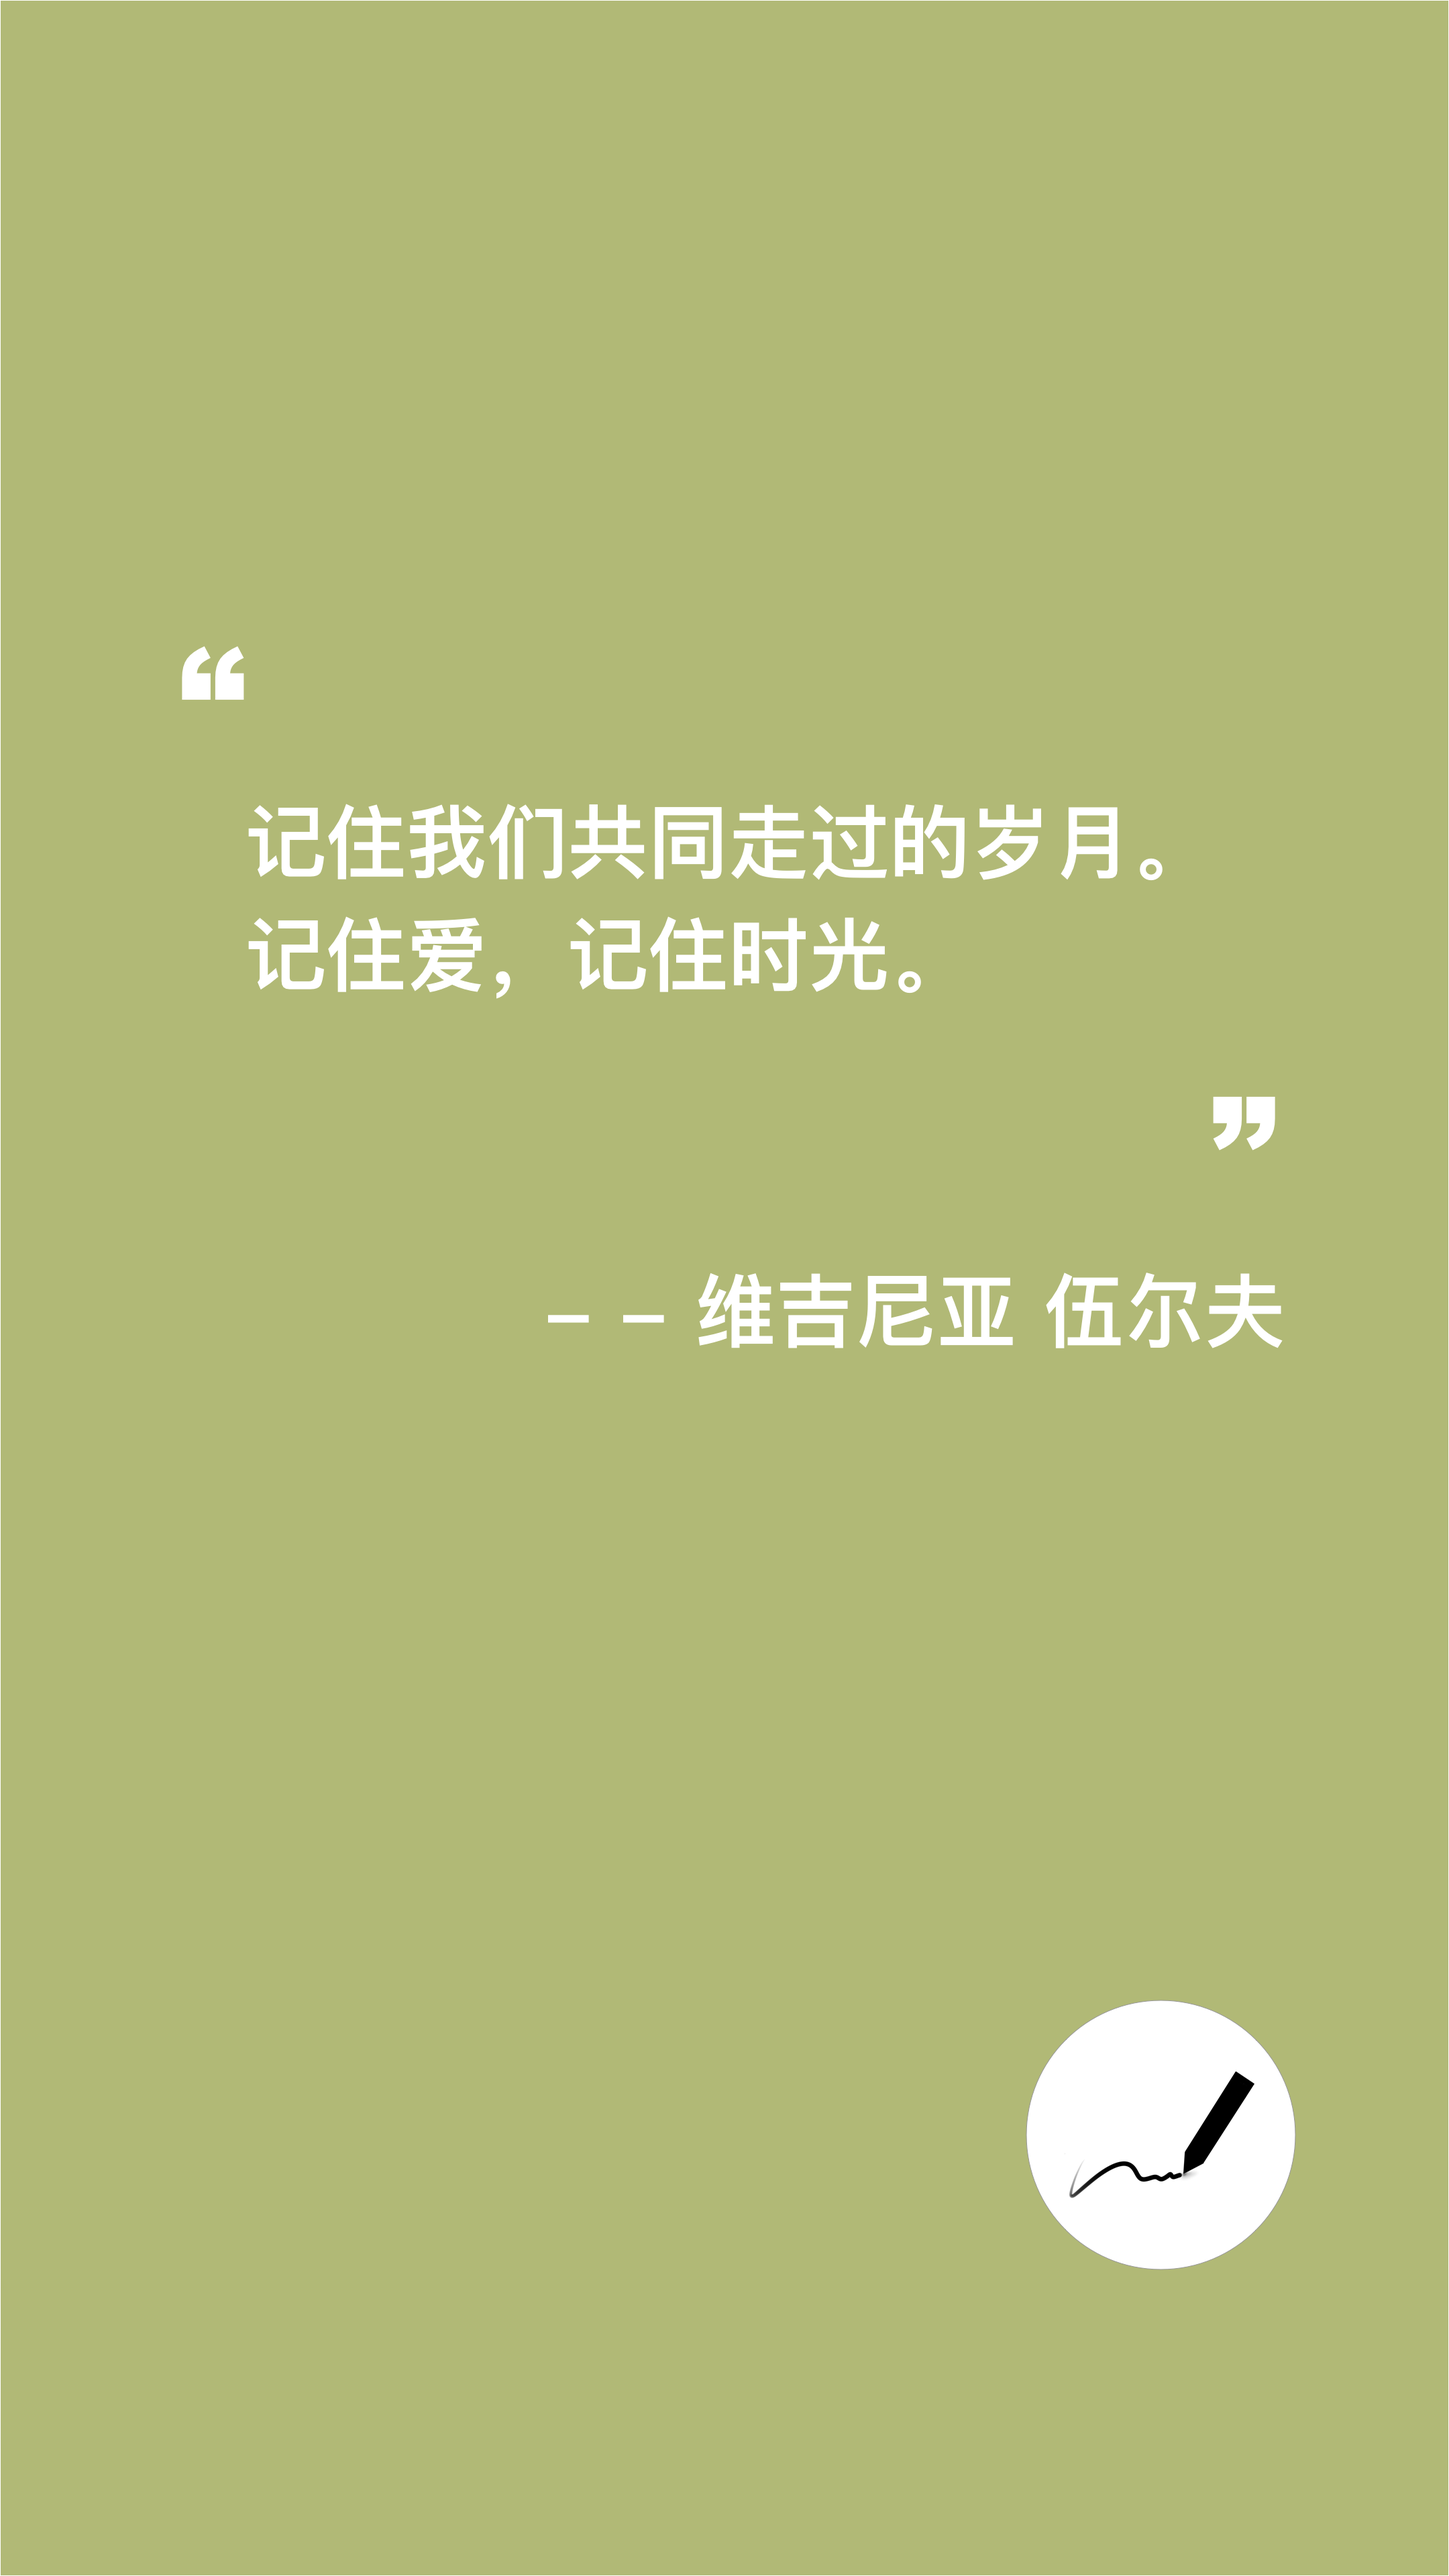
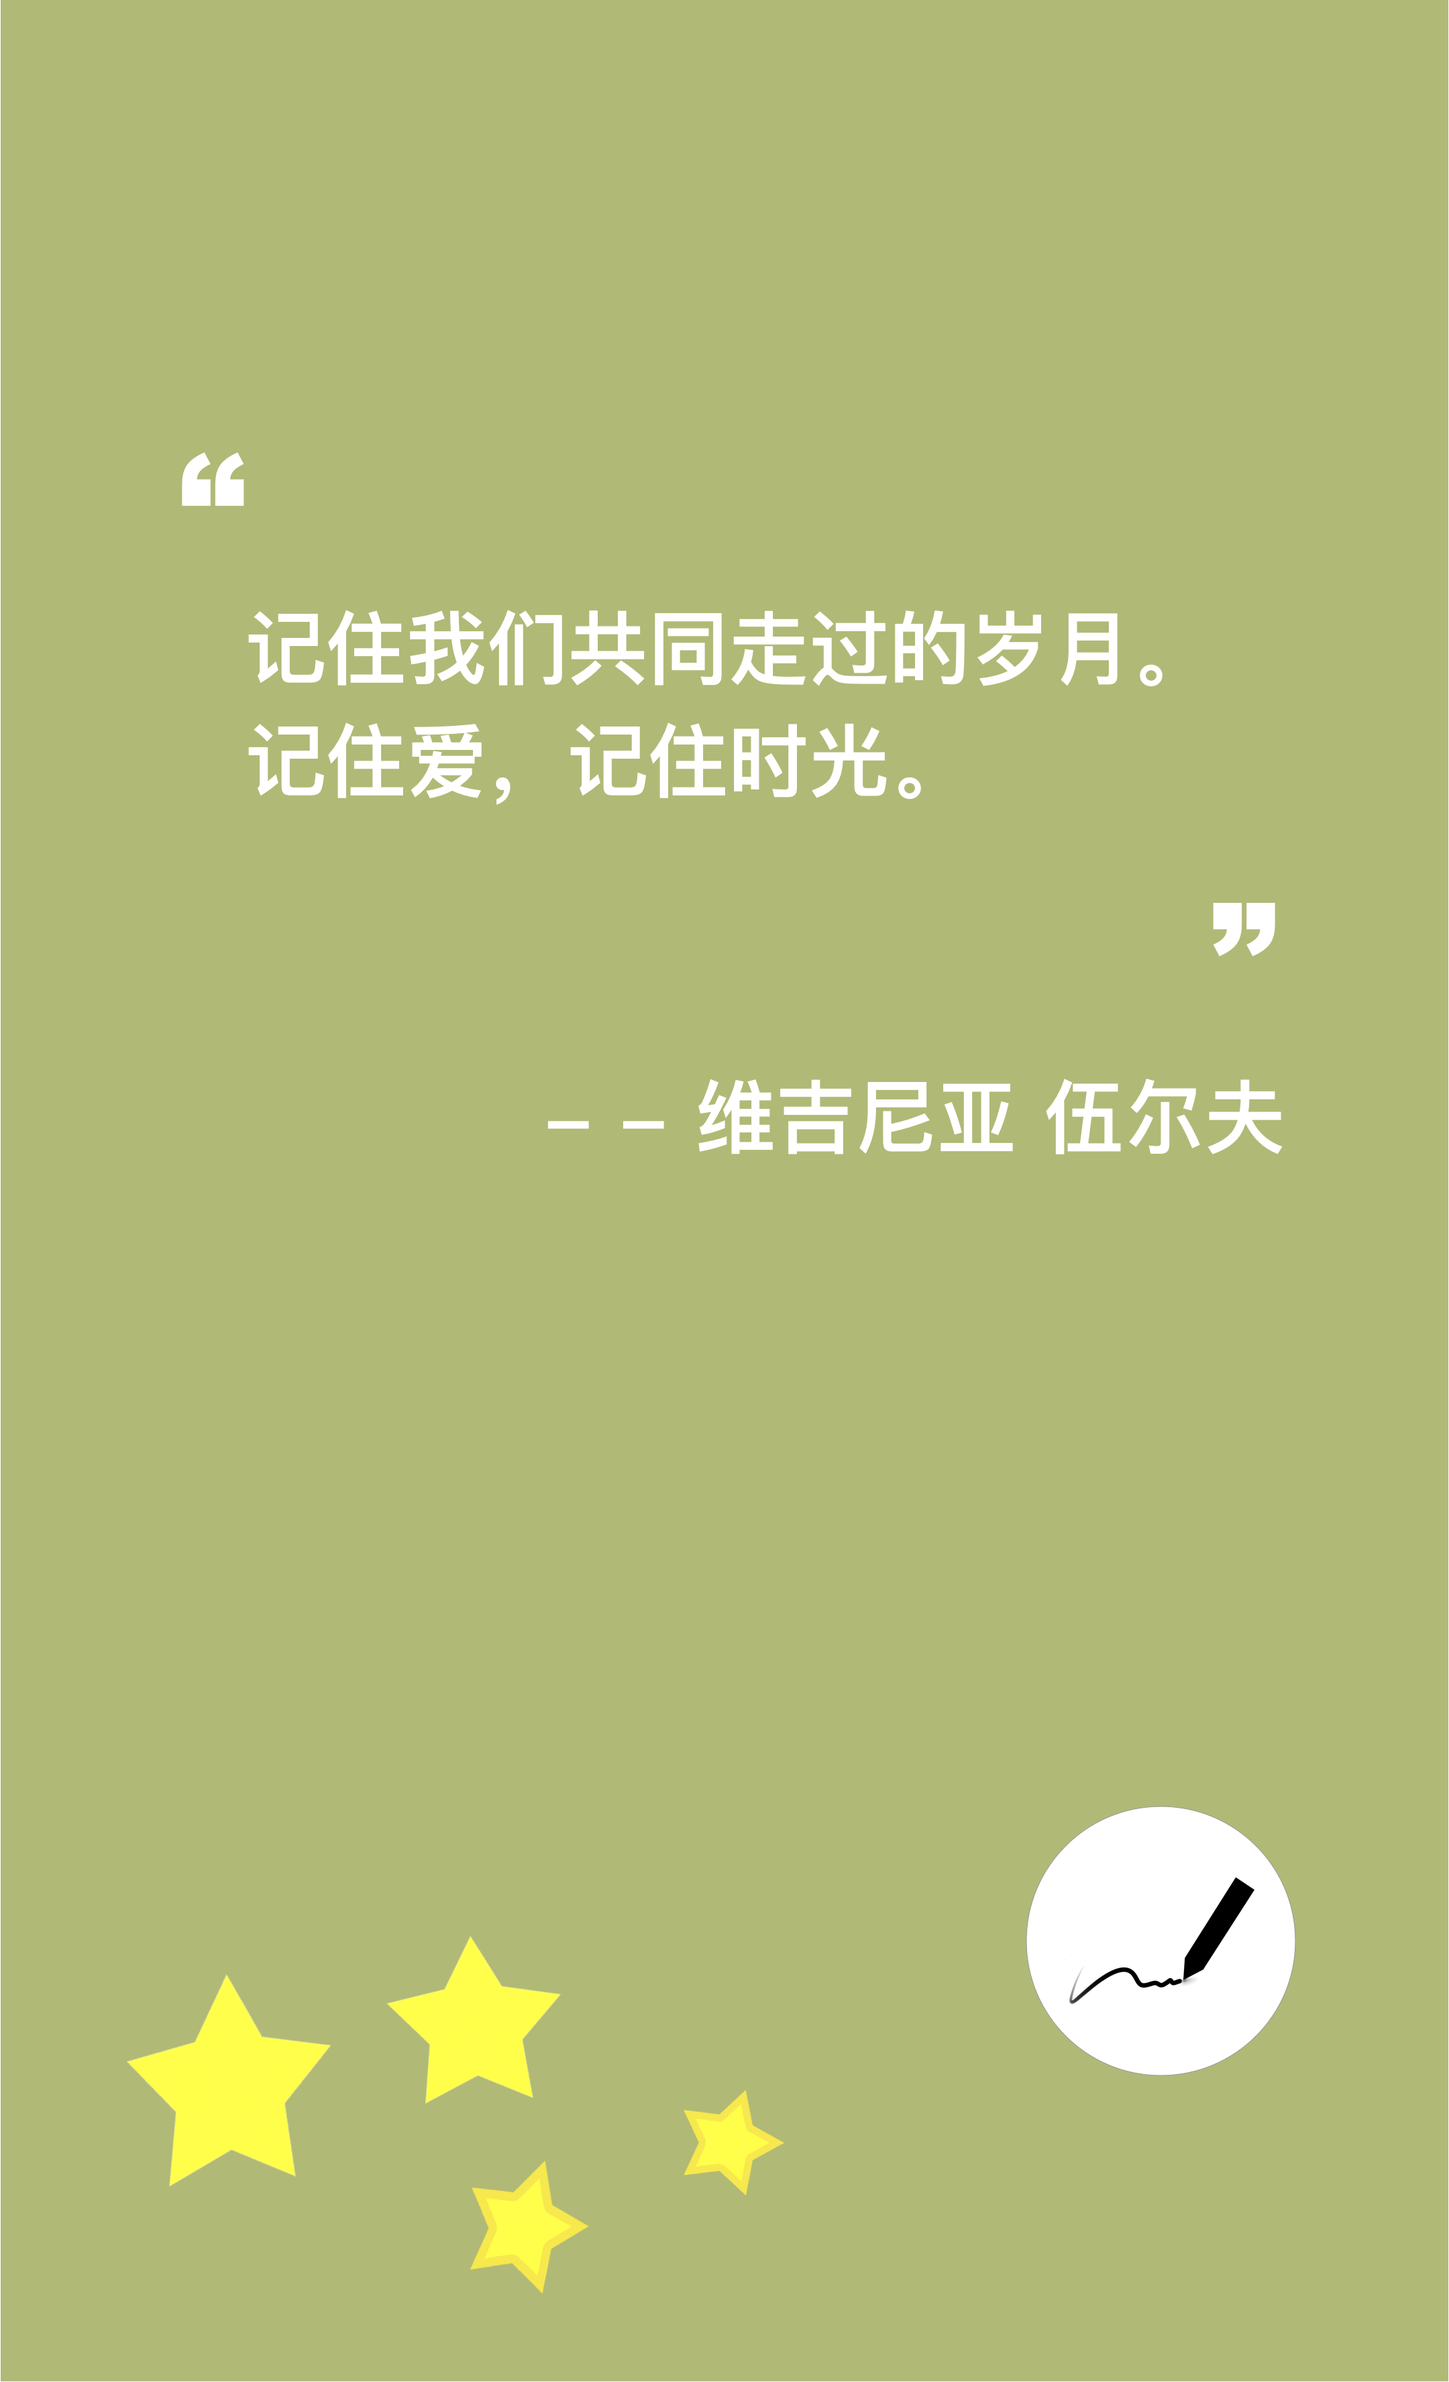
修改启动页

diff --git a/App/Views/Home/Styles/HomeStyle.js b/App/Views/Home/Styles/HomeStyle.js
@@ -3,8 +3,13 @@ import { Metrics, ApplicationStyles, Colors } from '../../../Themes/'
 
 export default StyleSheet.create({
   ...ApplicationStyles.screen,
-  b_homeImg: {
+  c_homeContainer: {
     width: Metrics.screenWidth,
     height: Metrics.screenHeight/1.1
+  },
+  b_homeImg: {
+    width: Metrics.screenWidth,
+    height: Metrics.screenHeight/1.1,
+
   }
 })

diff --git a/App/Views/Home/Home.js b/App/Views/Home/Home.js
@@ -29,6 +29,7 @@ class Home extends Component {
         />
         <View style={styles.c_homeContainer}>
           <Image
+          resizeMode="stretch"
           source={require('../../Images/home.png')}
           style={styles.b_homeImg}
           />
